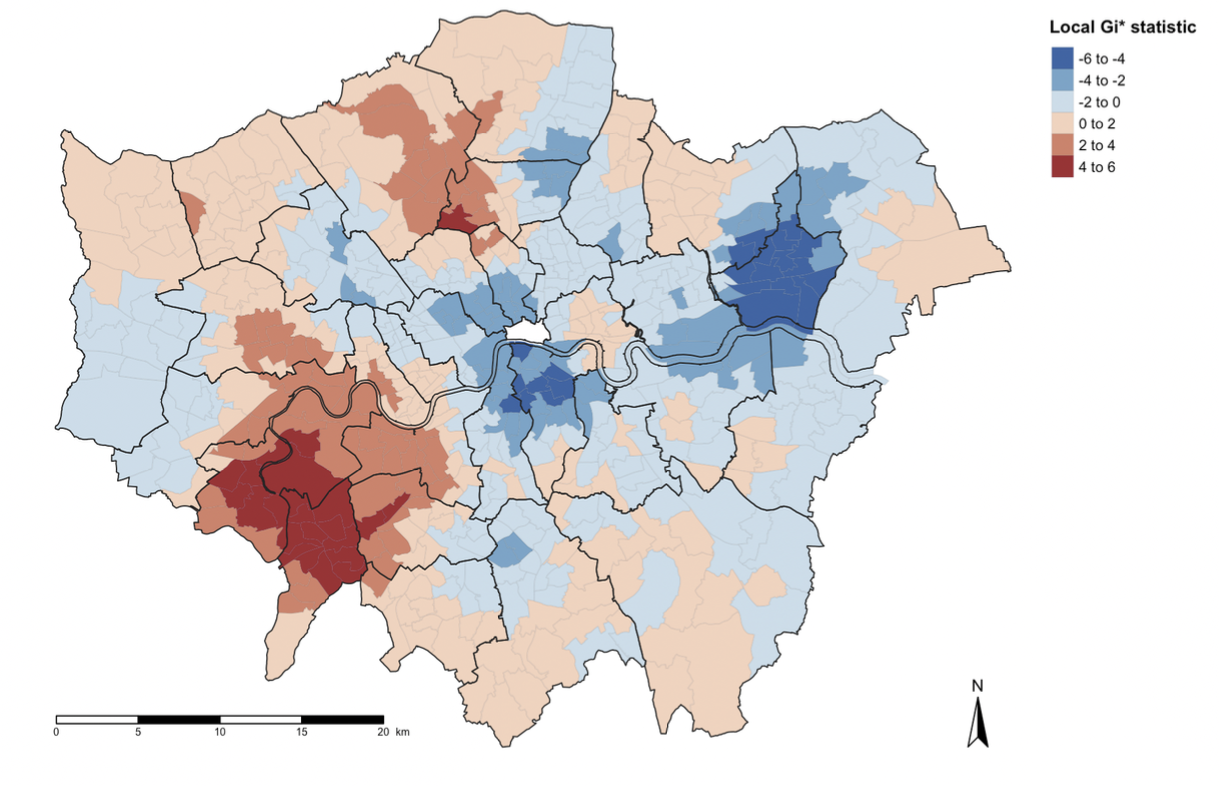
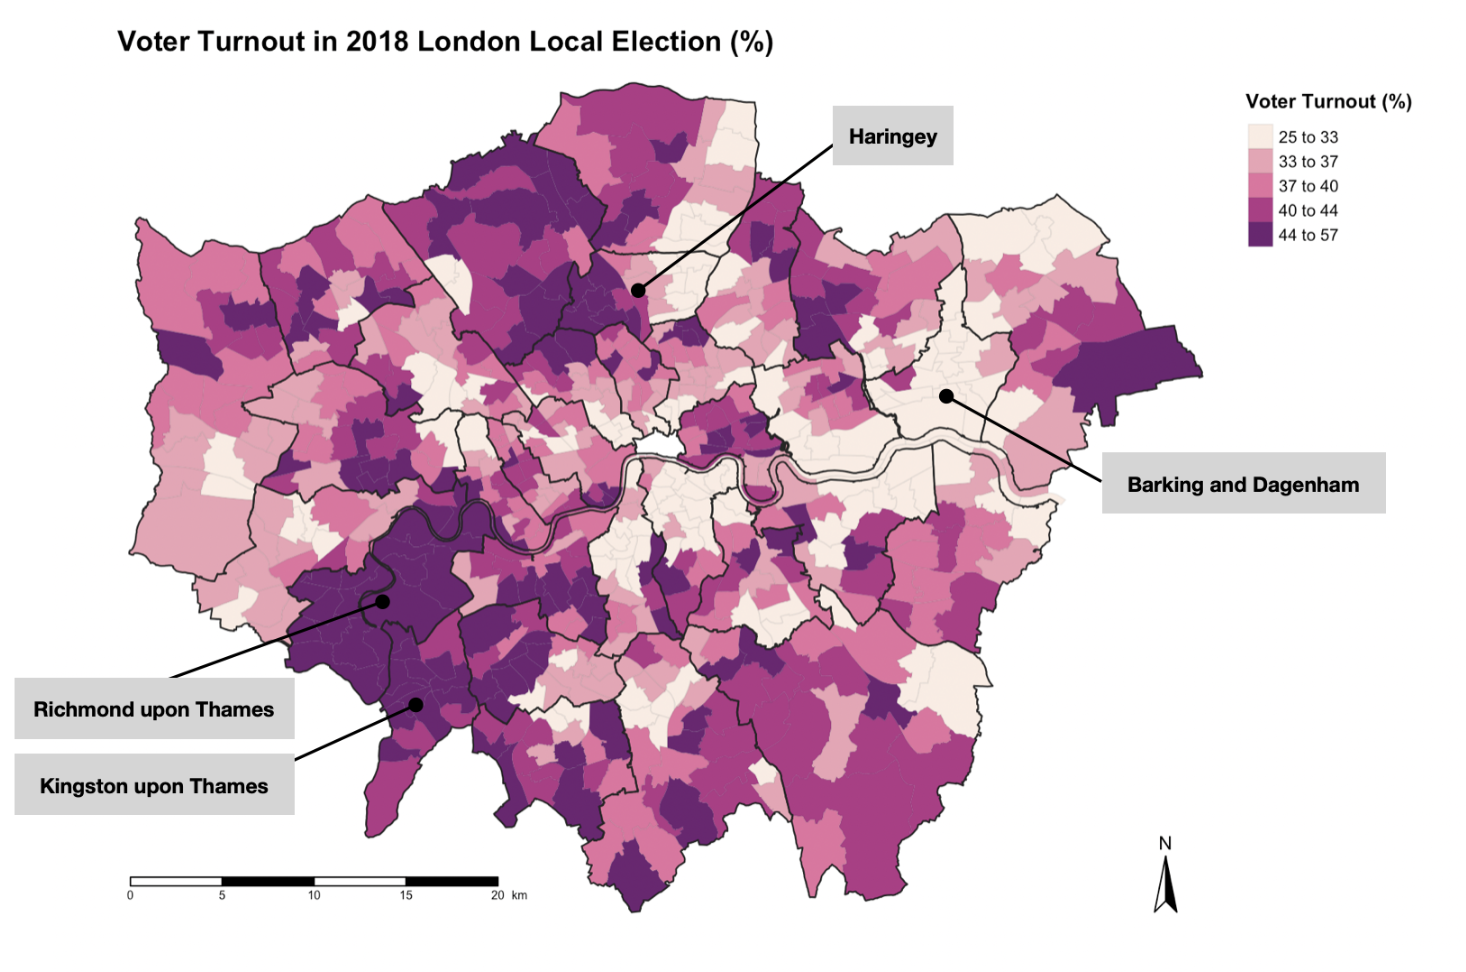
Updated content

diff --git a/gis-portfolio-details.html b/gis-portfolio-details.html
@@ -106,18 +106,23 @@
               <div class="swiper-wrapper align-items-center">
 
                 <div class="swiper-slide">
-                  <img src="assets/img/portfolio/refugee-1.jpg" alt="">
-                  <p class="image-caption">1. Trends in sentiments of hostility and hospitability in the UK House of Commons</p>
+                  <img src="assets/img/portfolio/gis-1.jpg" alt="">
+                  <p class="image-caption"></p>
                 </div>
 
                 <div class="swiper-slide">
-                  <img src="assets/img/portfolio/refugee-2.jpg" alt="">
-                  <p class="image-caption">2. Trends in sentiment across ruling and opposition parties initially show relative alignment, followed by a partisan divergence from 2019 onward</p>
+                  <img src="assets/img/portfolio/gis-2.jpg" alt="">
+                  <p class="image-caption"></p>
                 </div>
 
                 <div class="swiper-slide">
-                  <img src="assets/img/portfolio/refugee-3.jpg" alt="">
-                  <p class="image-caption">3. Disparities in Conservative MPs' estimated rhetorical position on refugee-related topics</p>
+                  <img src="assets/img/portfolio/gis-3.jpg" alt="">
+                  <p class="image-caption"></p>
+                </div>
+
+                <div class="swiper-slide">
+                  <img src="assets/img/portfolio/gis-4.jpg" alt="">
+                  <p class="image-caption"></p>
                 </div>
 
               </div>
@@ -129,48 +134,49 @@
             <div class="portfolio-info" data-aos="fade-up" data-aos-delay="200">
               <h3>Project Information</h3>
               <ul>
-                <li><strong>Category</strong>: Undergraduate Dissertation</li>
+                <li><strong>Category</strong>: Geocomputation Coursework</li>
                 <li><strong>Affiliation</strong>: University College London</li>
-                <li><strong>Project date</strong>: March 2024</li>
+                <li><strong>Project date</strong>: March 2023</li>
               </ul>
             </div>
           </div>
 
           <div class="col-lg-12">
             <div class="portfolio-description" data-aos="fade-up" data-aos-delay="300">
-              <h2>Hostility or Hospitality? MPs' Attitudes Towards Refugees in the UK Parliament</h2>
+              <h2>Geospatial Analysis of Voter Turnout in London's Local Elections</h2>
               <p>
-                The escalation in asylum caseloads in the UK has catalysed heated (and frankly at times chaotic) political debates over the fairness of the asylum system. 
-                To systematically analyse political rhetoric and attitudes toward refugees, I applied NLP methods to speeches delivered in the House of Commons, 
-                which are publicly available on <a href="https://hansard.parliament.uk/" target="_blank">Hansard</a>. 
-                Here are my three key findings from my undergraduate dissertation.
-              
-                <br><br>
-                <strong><em>1. Event-Driven Empathy and Hostility </strong></em><br><br>
-                My analysis revealed erratic, event-driven fluctuations in expressions of “hostility” and “hospitality”. 
-                For example, there was a very notable surge in hospitable sentiment following the arrival of Ukrainian refugees, contrasted with a spike in hostility toward those seeking protection through “illegal” means. 
-                Speech sentiment classification was performed using supervised machine learning (via <a href="https://scikit-learn.org/stable/" target="_blank">scikit-learn</a>), trained on a dataset of 600 manually labelled speeches.
+                In my second-year <a href="https://www.ucl.ac.uk/module-catalogue/modules/geocomputation-GEOG0030" target="_blank">Geocomputation</a> coursework, I analysed the geographic distribution of voter turnout in London’s local elections. 
+                Here are some key findings from the project:
+                </p>
                 
-                <br><br>
-                <strong><em>2. Divided or United? </strong></em><br><br>
-                Perhaps the most compelling finding from my study is the partisan divergence and convergence in sentiments 
-                across the studied time period. For instance, during the introduction of the <a href="https://hansard.parliament.uk/commons/2023-07-11/debates/7568707E-1542-430C-BE00-2E55C0B37FEC/IllegalMigrationBill" target="_blank">Illegal Migration Bill</a>, 
-                the predominant expressions were polarised between Conservative MPs, who had more expressions of hostility, 
-                and MPs from major opposition parties, who had dominant expressions of hospitality. 
-                However, during discussions over Syrian refugees in September 2015 and Ukrainian refugees in March 2022, 
-                there was a <em>unified dominance</em> in hospitable sentiment across most parties, indicating a relative
-                cross-party agreement on the "deservingness" for these refugees to receive protection in the UK.
-
-                <br><br>
-                <strong><em>3. Rebellion Within Party</strong></em><br><br>
-                What makes NLP on parliamentary speeches especially interesting is that MPs have a level of freedom to <em>dissent from party affiliations</em> and express disapproval. 
-                This creates an opportunity to study intra-party politics; that is, disparities and disagreements in policy positions <em>within</em> a single political party. 
-                These nuances are not evident in UK Parliament voting records, where MPs typically vote in alignment with party directives, regardless of their personal positions. 
-                I used <a href="https://scikit-learn.org/stable/" target="_blank">Wordscore from Quanteda</a> to estimate MPs’ ideological positions along a left–right spectrum, 
-                which captured more "far-leaning" politicians who are more hostile or sympathetic in their rhetorics. 
-              
-                <br><br>Further details about this project can be found on <a href="https://github.com/amikashima/Undergraduate-Dissertation" target="_blank">GitHub</a>.
-              </p>
+                <p>
+                <em><strong>1. London's Divided Political Participation</strong></em><br><br>
+                The overall voter turnout in London’s 2018 local elections was 39.3%, but there were prominent variations across wards. 
+                Higher turnout was observed in southwest boroughs such as Richmond upon Thames and Kingston upon Thames, while northeast boroughs like Barking and Dagenham saw lower turnout. 
+                We can also observe intra-borough disparities, including a clear east-west divide within Haringey. 
+                Hotspot and coldspot areas were identified using the Local Getis-Ord Gi* statistic, with high voter turnout clustering in the southwest and low turnout clustering in areas such as Barking and Dagenham and central Southwark. 
+                </p>
+                
+                <p>
+                <em><strong>2. Polling Station Proximity ≠ Turnout</strong></em><br><br>
+                Since locations of polling stations from 2018 are not publicly available, 
+                I used the dataset from the 2010 elections in North London, 
+                available <a href="https://data.london.gov.uk/dataset/polling-stations-london-2010-local-general-elections" target="_blank">here</a>. 
+                The addresses of polling stations were converted into geographic coordinates using 
+                the <a href="https://developers.google.com/maps/documentation/geocoding/overview" target="_blank">Google Maps Geocoding API</a>.
+                Using DBSCAN (Density-Based Spatial Clustering of Applications with Noise), 
+                I overlaid the identified clusters on a choropleth of in-person voter turnout. 
+                Interestingly, areas within the DBSCAN-identified clusters tended to have lower voter turnout, while northern wards with higher turnout were often outside these clusters.
+                </p>
+                
+                <p>
+                <em><strong>3. Does Access to Public Transit Really Drive Voter Turnout?</strong></em><br><br>
+                In the Borough of Enfield, which had the highest in-person turnout in North London, also had a relatively low concentration of polling stations in North London. 
+                Accessibility was measured by calculating the shortest path distance between polling stations and nearby public transit (bus, tube, and train) using <a href="https://cran.r-project.org/web/packages/osmdata/vignettes/osmdata.html" target="_blank">OpenStreetMap API</a>. 
+                The analysis revealed while central Enfield wards with high turnout also had good accessibility, the relationship was not always consistent. 
+                For example, Edmonton Green had excellent accessibility but relatively low turnout, whereas Chase had limited accessibility but high turnout.
+                </p>
+                
             </div>
           </div>
         </div>

diff --git a/index.html b/index.html
@@ -44,7 +44,7 @@
     <a href="index.html" class="logo d-flex align-items-center justify-content-center">
       <!-- Uncomment the line below if you also wish to use an image logo -->
       <!-- <img src="assets/img/logo.png" alt=""> -->
-      <h1 class="sitename"><br><br>Ami's Portfolio</h1>
+      <h1 class="sitename"><br><br>Ami Kashima</h1>
     </a>
 
     <div class="social-links text-center">
@@ -67,7 +67,7 @@
     <!-- Portfolio Intro Section -->
 <section id="intro" class="intro-section">
   <div class="container text-center">
-    <h1 class="intro-title">Ami Kashima</h1>
+    <h1 class="intro-title">Ami's Portfolio</h1>
     <p class="intro-description">
       Welcome to my portfolio! Here you'll find some of my work in data analytics and machine learning. Feel free to reach out if you'd like to chat😊
     </p>
@@ -210,7 +210,7 @@
             <li data-filter=".filter-nlp">NLP</li>
             <li data-filter=".filter-gis">GIS</li>
             <li data-filter=".filter-stats">Statistics</li>
-            <li data-filter=".filter-ml">ML</li>
+            <li data-filter=".filter-ml">Others</li>
           
           </ul><!-- End Portfolio Filters -->
 
@@ -232,20 +232,8 @@
                 <img src="assets/img/portfolio/gis-1.jpg" class="img-fluid" alt="">
                 <div class="portfolio-info">
                   <h4>GIS, R</h4>
-                  <p>Voter Turnout in London's Local Elections</p>
-                  <a href="portfolio-details.html" title="More Details" class="details-link"><i class="bi bi-link-45deg"></i></a>
-                </div>
-              </div>
-            </div><!-- End Portfolio Item -->
-
-            <div class="col-lg-4 col-md-6 portfolio-item isotope-item filter-gis">
-              <div class="portfolio-content h-100">
-                <img src="assets/img/portfolio/polling-1.jpg" class="img-fluid" alt="">
-                <div class="portfolio-info">
-                  <h4>GIS, R</h4>
-                  <p>Polling Stations and Turnout in North London</p>
-                  
-                  <a href="portfolio-details.html" title="More Details" class="details-link"><i class="bi bi-link-45deg"></i></a>
+                  <p>Geospatial Analysis of Voter Turnout in London's Local Elections</p>
+                  <a href="gis-portfolio-details.html" title="More Details" class="details-link"><i class="bi bi-link-45deg"></i></a>
                 </div>
               </div>
             </div><!-- End Portfolio Item -->
